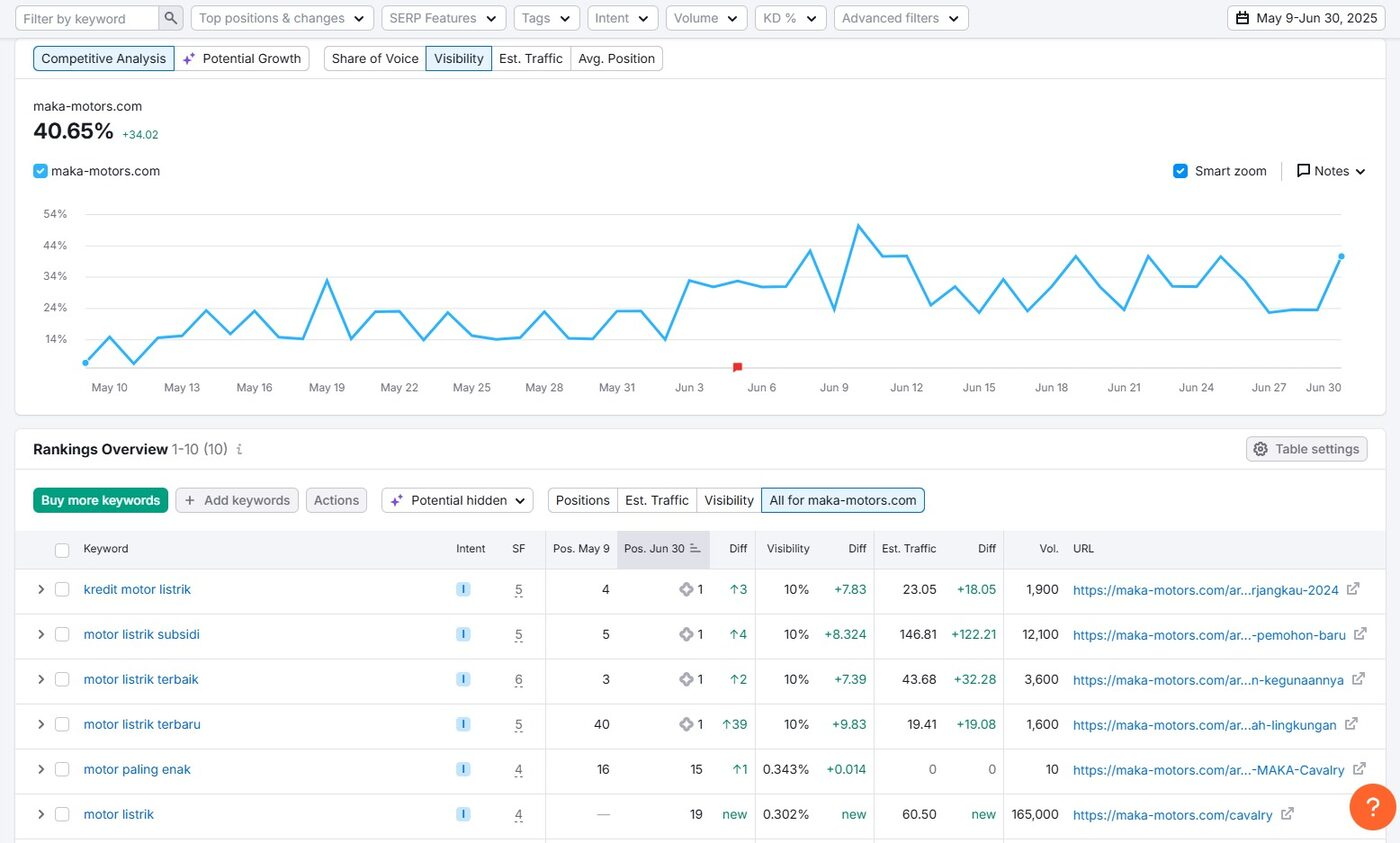
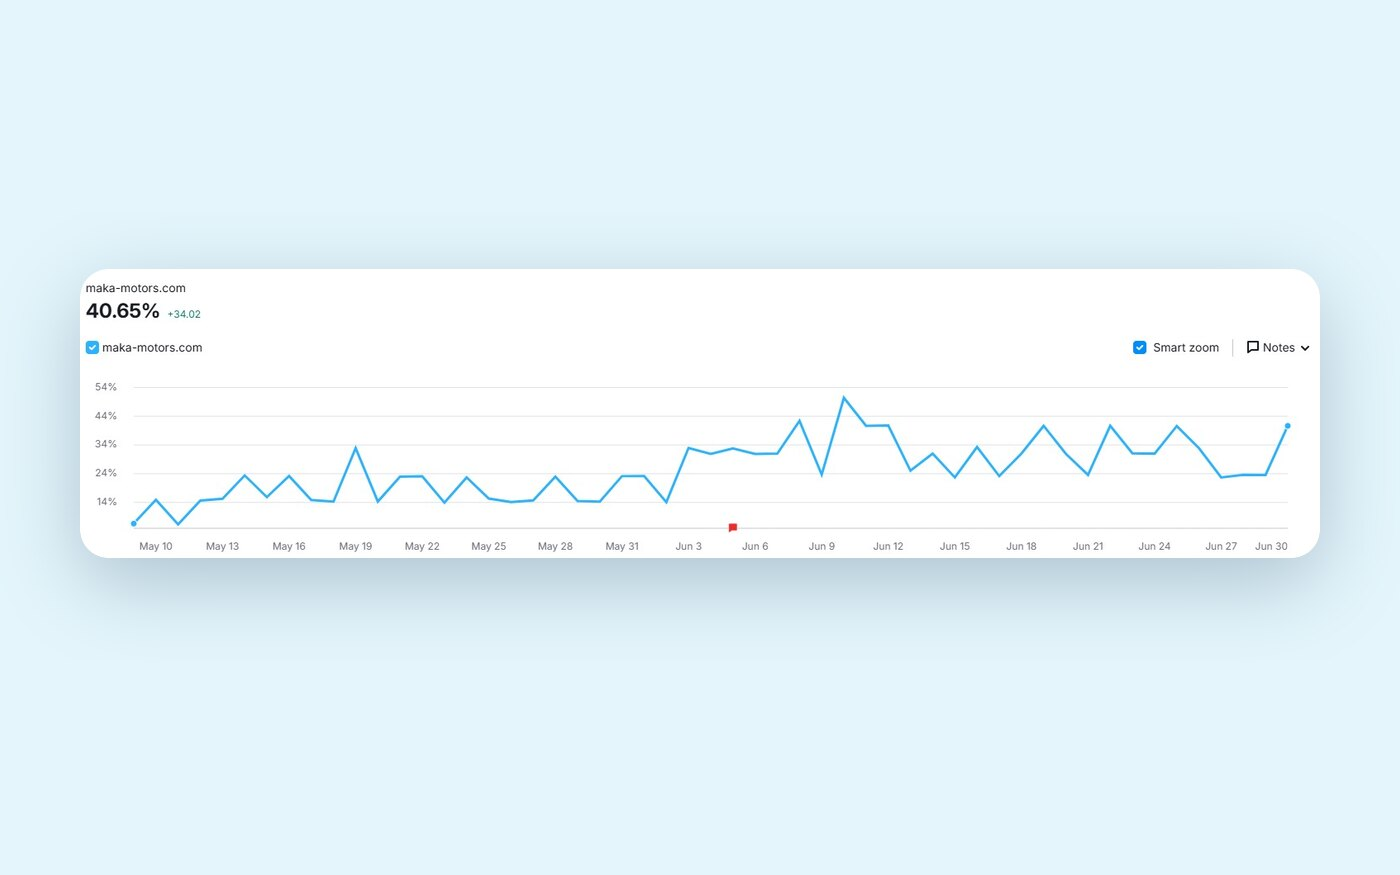
feat(home): Apple-style case study cards
- Thumbnails are tinted tiles with the graph centred as a rounded card with a
  soft shadow (MAKA Semrush band, Verihubs bar chart, GNET and YKK Search
  Console stats + chart), all 1400x875
- Card text reduced to three levels: client, one-line title, one metric with a
  short caption; Read case study as a text link
- Shorter titles and captions; sources stay on the case study pages
- Tighter spacing inside the card, more between cards

diff --git a/src/components/sections/SelectedWork.tsx b/src/components/sections/SelectedWork.tsx
@@ -4,41 +4,36 @@ import { caseStudies, selectedWork, type WorkCard } from "@/lib/content";
 import Appear from "@/components/ui/Appear";
 import { ArrowRight, ChevronDown } from "@/components/ui/Lucide";
 
-/* 3 studi kasus unggulan. Tiap kartu: nama project, grafik asli, judul, 1 metrik + sumber, link.
+/* 3 studi kasus unggulan, gaya tile Apple: tile berwarna lembut dengan grafik di tengah,
+   lalu klien, judul satu baris, satu angka, tautan teks.
    "View all case studies" = <details> native: daftar tambahan di homepage, tanpa halaman baru. */
 
-function Card({ w, location, wide }: { w: WorkCard; location: string; wide?: boolean }) {
+function Card({ w, location }: { w: WorkCard; location: string }) {
   const cs = caseStudies.find((c) => c.slug === w.slug);
   if (!cs) return null;
   return (
-    <article
-      className={`flex h-full flex-col overflow-hidden rounded-[50px] bg-card shadow-soft md:flex-row ${wide ? "" : "lg:flex-col"}`}
-    >
-      <div
-        className={`relative aspect-[16/10] w-full shrink-0 overflow-hidden bg-card-3 md:aspect-auto md:min-h-[320px] md:w-[46%] ${
-          wide ? "" : "lg:aspect-[16/10] lg:min-h-0 lg:w-full"
-        }`}
-      >
-        <Image
-          src={cs.image.src}
-          alt={cs.image.alt}
-          fill
-          sizes="(max-width: 810px) 100vw, (max-width: 1200px) 46vw, 380px"
-          className="object-cover object-left-top"
-        />
-      </div>
-      <div className="flex flex-1 flex-col gap-4 p-6 md:p-7">
-        <p className="text-[15px] font-semibold text-muted">{cs.client}</p>
-        <h3 className="text-[22px] leading-[1.15] tracking-[-0.04em] md:text-[24px]">{w.title}</h3>
-        <div className="rounded-[28px] bg-white p-5 shadow-softer">
-          <p className="text-[32px] font-semibold leading-none tracking-[-0.05em] text-ink">{w.metric.value}</p>
-          <p className="mt-2 text-[15px] font-medium leading-[1.35] text-muted">
-            {w.metric.label} · {w.metric.source}
-          </p>
+    <article className="flex h-full flex-col gap-4">
+      {/* Tile: latar lembut, grafik di tengah (gambar sudah disusun begitu) */}
+      <Link href={`/work/${cs.slug}`} className="group block" tabIndex={-1} aria-hidden>
+        <div className="relative aspect-[16/10] w-full overflow-hidden rounded-[32px] bg-card-3">
+          <Image
+            src={cs.image.src}
+            alt=""
+            fill
+            sizes="(max-width: 810px) 100vw, (max-width: 1200px) 50vw, 380px"
+            className="object-cover transition-transform duration-500 group-hover:scale-[1.02]"
+          />
         </div>
+      </Link>
+      {/* Tiga tingkat teks: klien, judul, angka */}
+      <div className="flex flex-col gap-1.5 px-1 text-center">
+        <p className="text-[13px] font-semibold text-muted">{cs.client}</p>
+        <h3 className="text-[22px] leading-[1.15] tracking-[-0.04em] md:text-[24px]">{w.title}</h3>
+        <p className="mt-2 text-[30px] font-semibold leading-none tracking-[-0.05em] text-ink md:text-[32px]">{w.metric.value}</p>
+        <p className="text-[14px] font-medium text-muted">{w.metric.label}</p>
         <Link
           href={`/work/${cs.slug}`}
-          className="btn btn-dark mt-auto self-start px-5"
+          className="mx-auto mt-3 inline-flex items-center gap-1 text-[16px] font-semibold text-ink underline-offset-4 hover:underline"
           data-track="case_study_click"
           data-location={location}
           data-project={cs.slug}
@@ -58,7 +53,7 @@ export default function SelectedWork() {
           <h2 className="text-[38px] leading-none md:text-[60px]">{selectedWork.heading}</h2>
         </Appear>
 
-        <ul className="grid gap-4 lg:grid-cols-3">
+        <ul className="grid gap-10 md:grid-cols-2 md:gap-8 lg:grid-cols-3 lg:gap-6">
           {selectedWork.featured.map((w, i) => (
             <Appear as="li" key={w.slug} delay={i * 90}>
               <Card w={w} location="selected_work" />
@@ -71,10 +66,10 @@ export default function SelectedWork() {
             {selectedWork.moreLabel}
             <ChevronDown className="h-4 w-4 transition-transform duration-300 group-open:rotate-180" />
           </summary>
-          <ul className="mt-6 grid gap-4">
+          <ul className="mx-auto mt-8 grid max-w-[380px] gap-4">
             {selectedWork.more.map((w) => (
               <li key={w.slug}>
-                <Card w={w} location="all_case_studies" wide />
+                <Card w={w} location="all_case_studies" />
               </li>
             ))}
           </ul>

diff --git a/src/lib/content.ts b/src/lib/content.ts
@@ -181,29 +181,30 @@ export type WorkCard = {
 export const selectedWork = {
   heading: "Case studies",
   readLabel: "Read case study",
+  /* Sumber lengkap ada di halaman studi kasus; di kartu cukup label pendek. */
   moreLabel: "One more case study",
   featured: [
     {
       slug: "maka-motors",
-      title: "Building a website around the questions EV buyers actually ask.",
-      metric: { value: "6.6% → 40.6%", label: "SEO visibility in 7 weeks", source: "Semrush, May to Jun 2025" },
+      title: "Built around what EV buyers ask.",
+      metric: { value: "6.6% → 40.6%", label: "SEO visibility, 7 weeks", source: "Semrush" },
     },
     {
       slug: "verihubs",
-      title: "Making organic growth more useful to sales.",
-      metric: { value: "9% → 32%", label: "qualified SEO leads", source: "Sales team, Jan to Jun 2026" },
+      title: "Organic growth that sales can use.",
+      metric: { value: "9% → 32%", label: "qualified SEO leads, 6 months", source: "Sales team" },
     },
     {
       slug: "gnet",
-      title: "Growing organic discovery through content and website improvements.",
-      metric: { value: "1.25K → 16.6K", label: "organic clicks in 6 months", source: "Search Console" },
+      title: "Two sites from zero, found on Google.",
+      metric: { value: "1.25K → 16.6K", label: "organic clicks, 6 months", source: "Search Console" },
     },
   ] as WorkCard[],
   more: [
     {
       slug: "ykk-ap",
-      title: "Replacing the lead form with a WhatsApp conversation.",
-      metric: { value: "45%+", label: "chat conversion, 1,800+ WhatsApp leads", source: "Meta Ads Manager" },
+      title: "A WhatsApp chat instead of a form.",
+      metric: { value: "45%+", label: "chat conversion, 1,800+ leads", source: "Meta Ads Manager" },
     },
   ] as WorkCard[],
 } as const;
@@ -226,7 +227,7 @@ export const caseStudies: CaseStudy[] = [
       src: "/images/site/maka-visibility.jpg",
       alt: "Semrush visibility trend for maka-motors.com rising from 6.6% to 40.6%",
       width: 1400,
-      height: 843,
+      height: 875,
     },
     context: [
       "MAKA Motors is an Indonesian EV startup launching Cavalry, an electric motorcycle in a category most Indonesians had never considered.",
@@ -458,10 +459,10 @@ export const caseStudies: CaseStudy[] = [
     market: "Indonesia",
     result: "13x organic clicks",
     image: {
-      src: "/images/p10_X16.jpg",
-      alt: "GNET, 1.25K to 16.6K organic clicks (GSC)",
-      width: 1120,
-      height: 528,
+      src: "/images/site/gnet-clicks.jpg",
+      alt: "Google Search Console graph for GNET, organic clicks rising from 1.25K to 16.6K",
+      width: 1400,
+      height: 875,
     },
     context: [
       "GNET Indonesia is a building-materials brand in a market where distributors, not manufacturers, own the customer relationship.",
@@ -551,10 +552,10 @@ export const caseStudies: CaseStudy[] = [
     market: "Indonesia",
     result: "~1,300% ROI",
     image: {
-      src: "/images/site/ykk-gsc.jpg",
-      alt: "YKK AP, 12-month organic performance (GSC)",
-      width: 1600,
-      height: 955,
+      src: "/images/site/ykk-clicks.jpg",
+      alt: "Google Search Console graph for ykksinarfortuna.id, organic clicks rising over 12 months",
+      width: 1400,
+      height: 875,
     },
     context: [
       "YKK AP Sinar Fortuna sells premium architectural products. A single project averages around Rp500M.",
